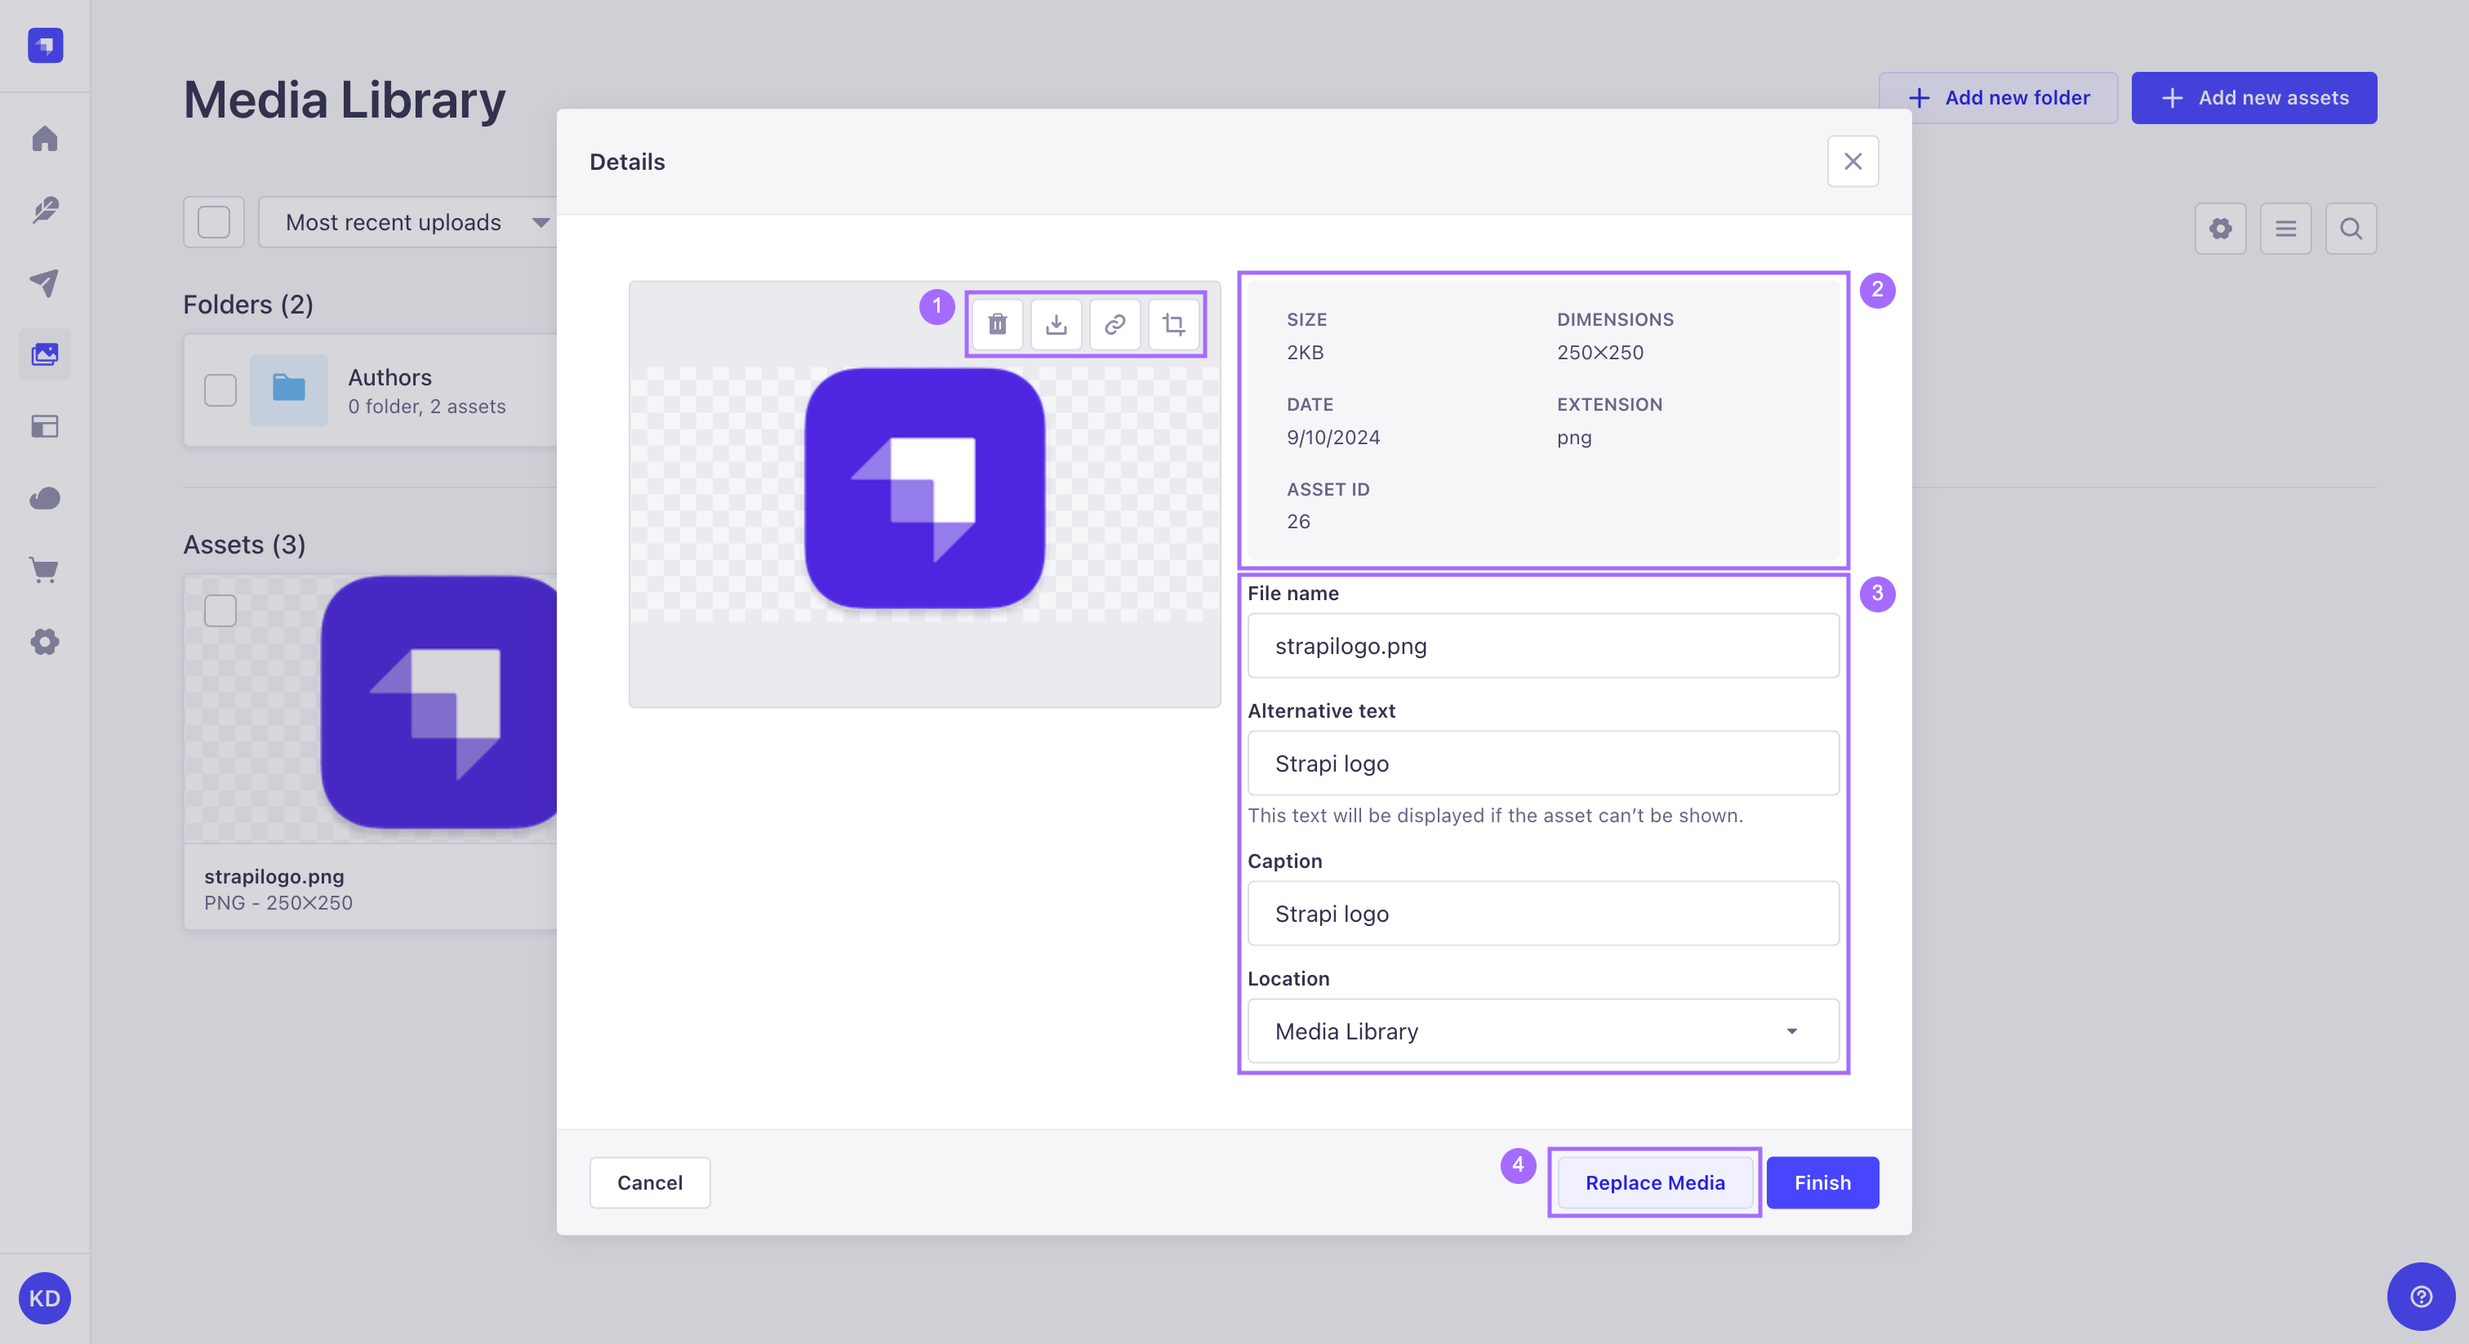
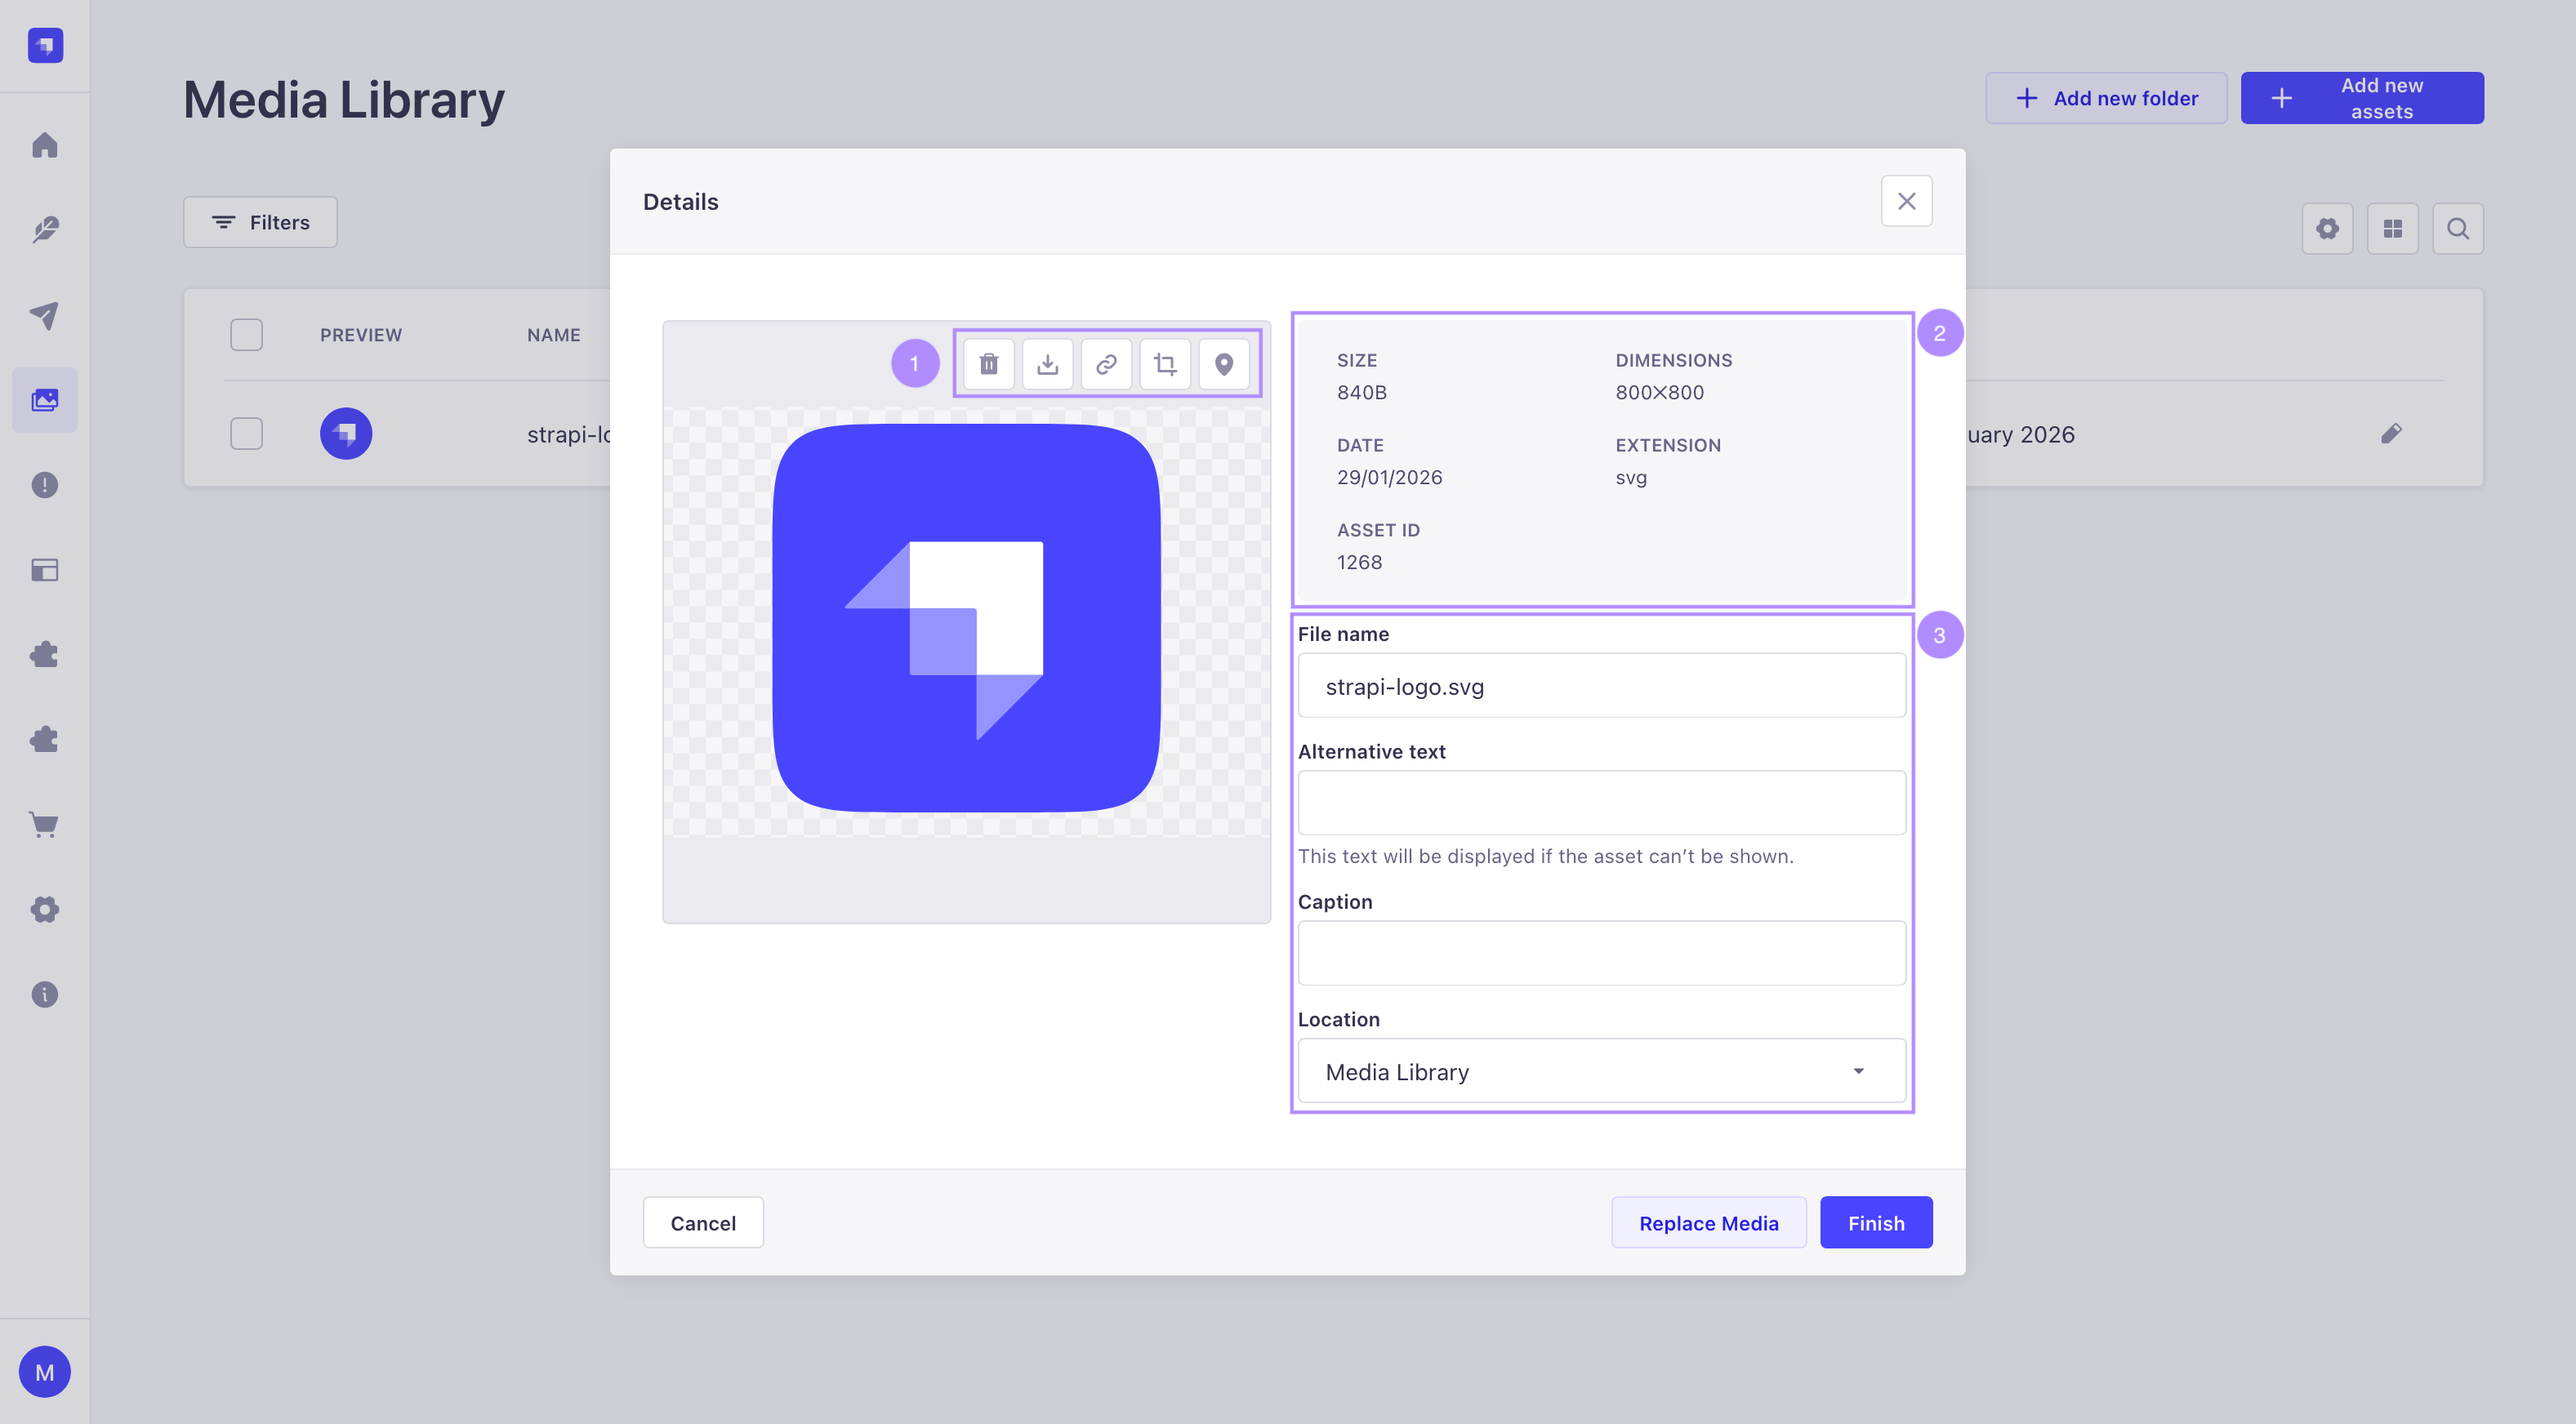
Add focal point documentation to media library page

diff --git a/docusaurus/docs/cms/features/media-library.md b/docusaurus/docs/cms/features/media-library.md
@@ -635,6 +635,7 @@ Click on the edit <Icon name="pencil-simple" /> button of an asset to open up th
   - click on the download button <Icon name="download-simple"  /> to download the asset,
   - click on the copy link button <Icon name="link" classes="ph-bold" /> to copy the asset's link to the clipboard,
   - optionally, click on the crop button <Icon name="crop" classes="ph-bold" /> to enter cropping mode for the image (see [Cropping images](#cropping-images)).
+  - optionally, click on the pin button <Icon name="map-pin" classes="ph-bold" /> to enter focal point mode for the image (see [Adding a focal point](#adding-a-focal-point)).
 - On the right, meta data for the asset is displayed at the top of the window <ScreenshotNumberReference number="2" /> and the fields below can be used to update the _File name_, _Alternative text_, _Caption_ and _Location_ (see [Organizing assets with folders](#organizing-assets-with-folders)) for the asset <ScreenshotNumberReference number="3" />.
 - At the bottom, the **Replace Media** button <ScreenshotNumberReference number="4" /> can be used to replace the asset file but keep the existing content of the other editable fields, and the **Finish** button is used to confirm any updates to the fields.
 
@@ -656,6 +657,15 @@ Assets can also be moved to other folders from the main view of the Media Librar
 4. Click the crop <Icon name="check" classes="ph-bold" /> button to validate the new dimensions, and choose either to **crop the original asset** or to **duplicate & crop the asset** (i.e. to create a copy with the new dimensions while keeping the original asset untouched). Alternatively, click the stop cropping <Icon name="x" classes="ph-bold" /> button to cancel and quit cropping mode.
 <!-- TODO: ask devs because there seems to be a bug/unintuitive behavior:  choosing crop the original asset does not quit cropping mode 😅  -->
 5. Click **Finish** to save changes to the file.
+
+#### Adding a focal point
+
+1. Click on the edit <Icon name="pencil-simple" /> button to add a focal point to an image.
+2. In the window that pops up, click on the pin <Icon name="map-pin" /> button to enter focal point mode.
+3. Move the crosshair to the desired location and click to set the focal point.
+4. Click the check <Icon name="check" classes="ph-bold" /> button to validate the new focal point. Alternatively, click the cancel <Icon name="x" classes="ph-bold" /> button to abandaon changes and exit focal point mode.
+5. Click the reset <Icon name="arrows-counter-clockwise" classes="ph-bold" /> button to reset the focal point to the center of the iamge.
+6. Click **Finish** to save changes to the file.
 
 #### Deleting assets
 
